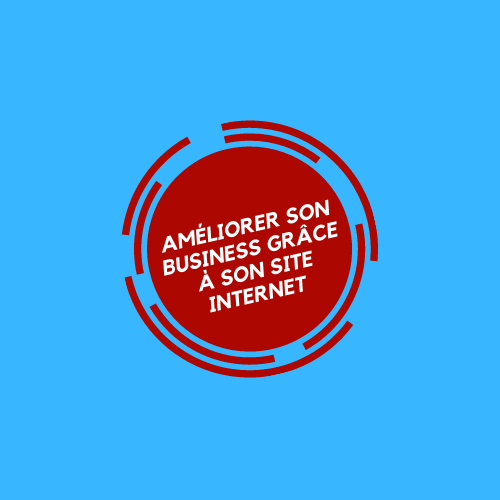
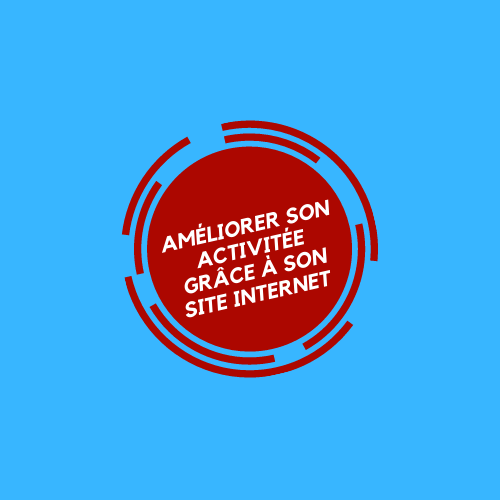
update title

Changed region(s): [[0.33, 0.42, 0.69, 0.63]]

diff --git a/web/src/components/newsletters/NWYnov1.vue b/web/src/components/newsletters/NWYnov1.vue
@@ -9,7 +9,7 @@
       <div class="card-content">
         <div class="media">
           <div class="media-content">
-            <p class="title is-4">Améliorer son business grâce à internet.</p>
+            <p class="title is-4">Améliorer son activité grâce à son site internet.</p>
             <p class="subtitle is-6">by @_yannicksf</p>
           </div>
         </div>
